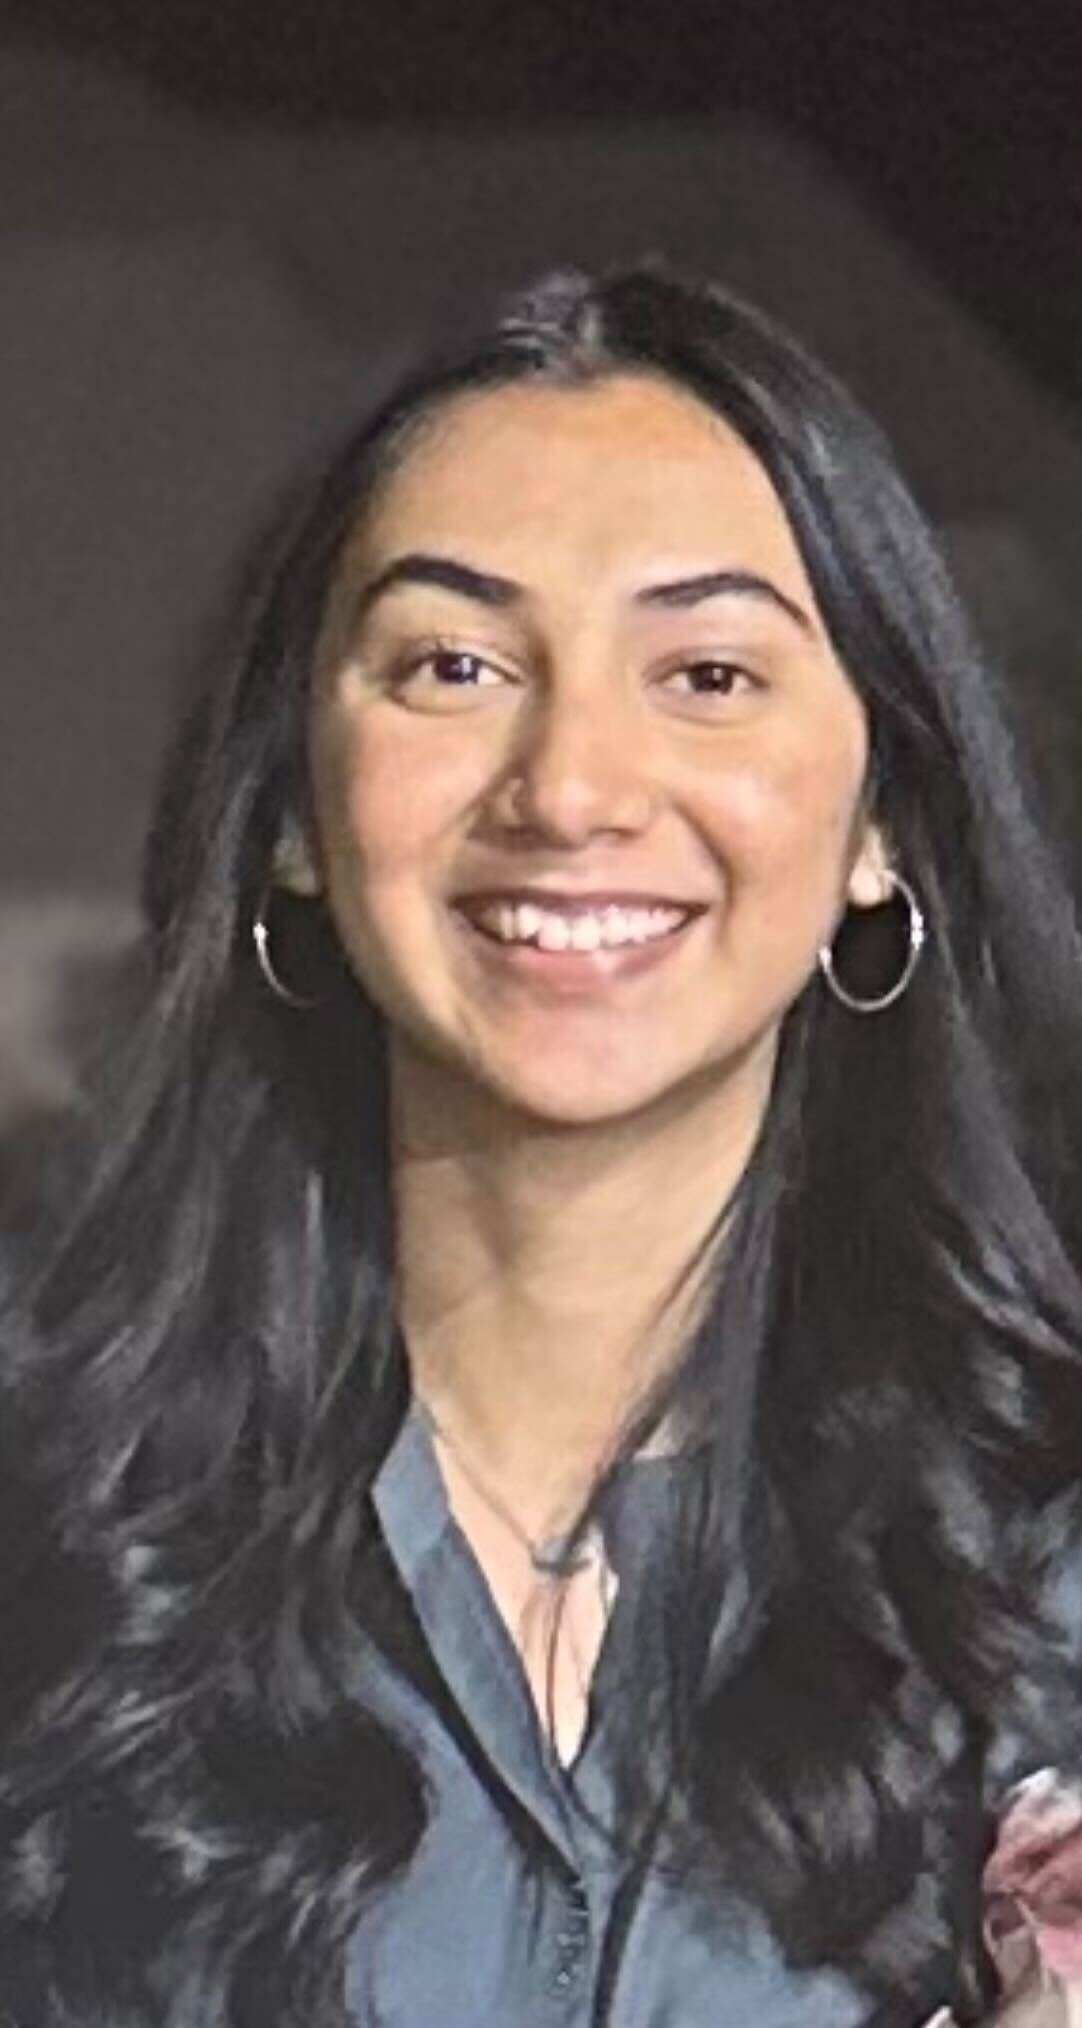
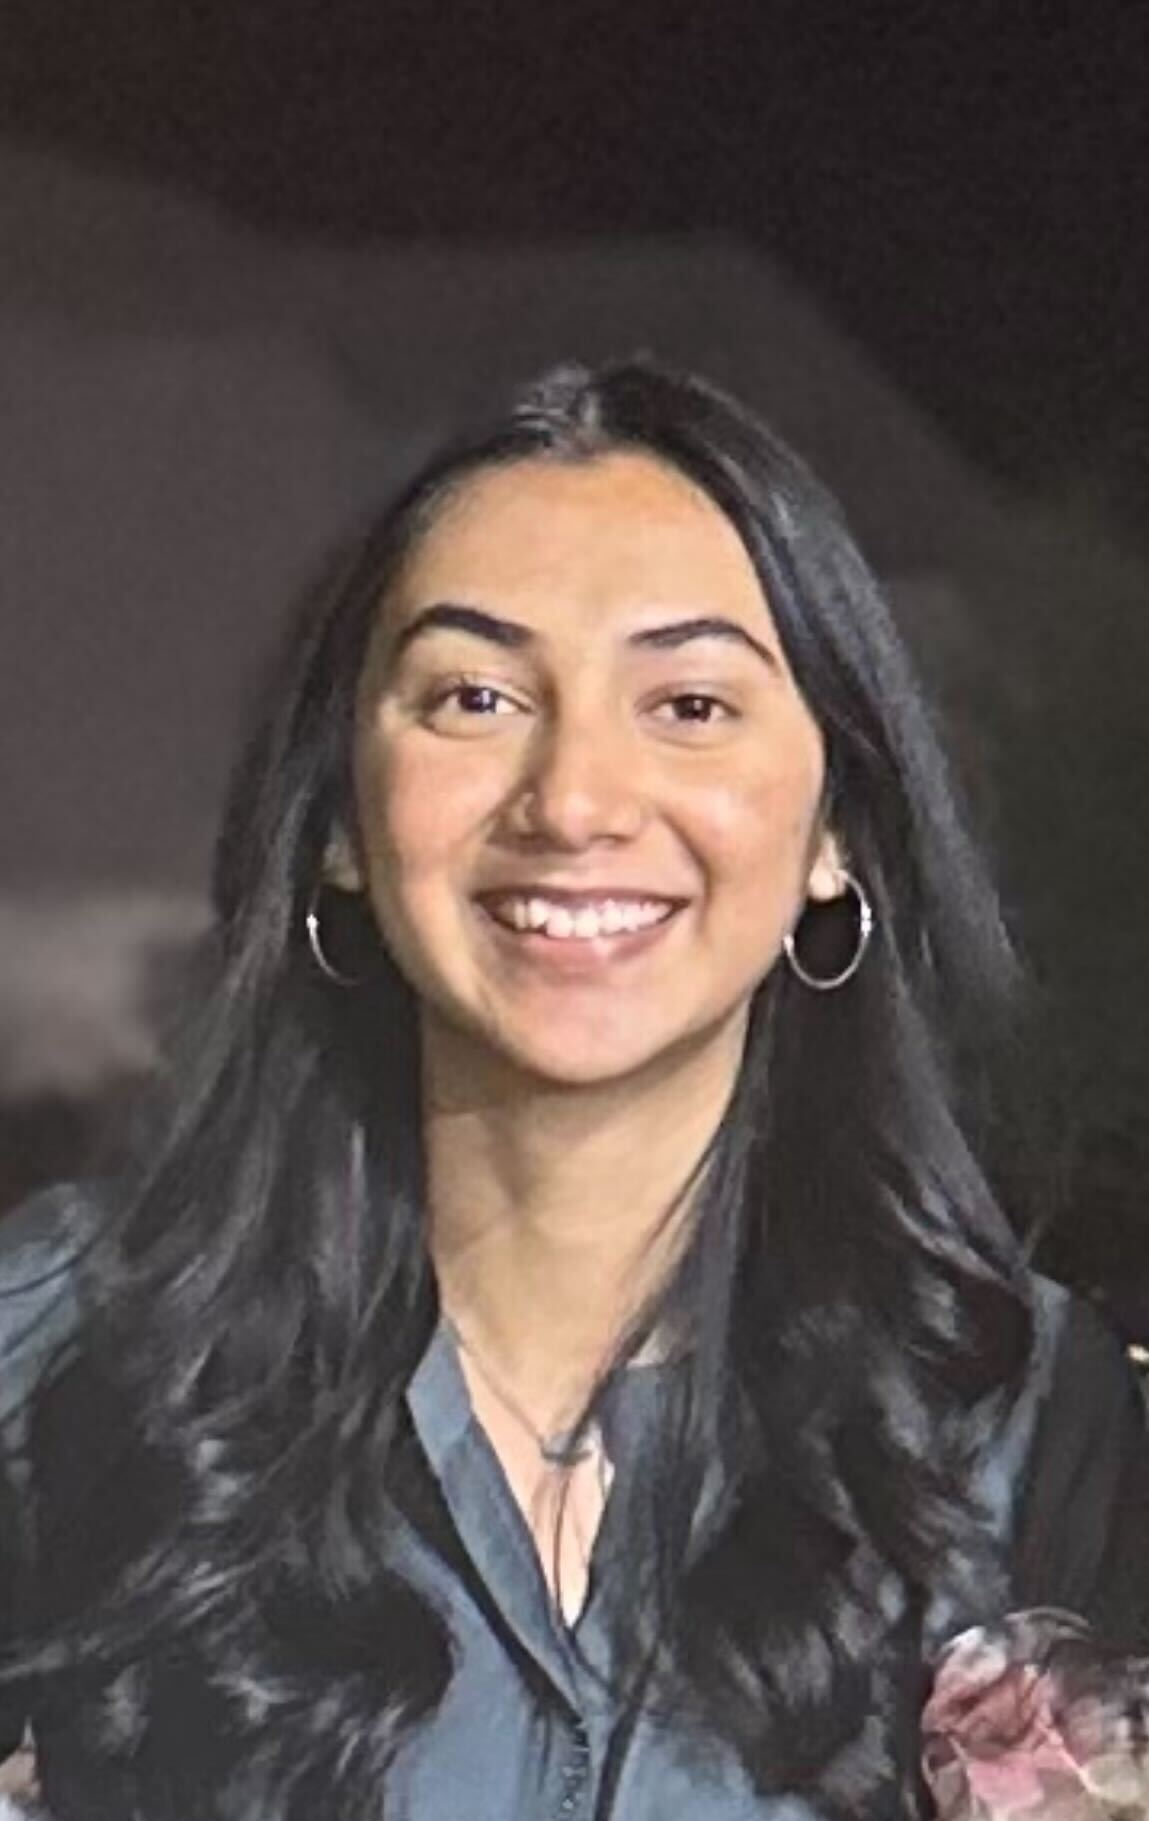
Update Juhi photo

diff --git a/index.html b/index.html
@@ -188,12 +188,24 @@
         <section class="team-section" id="team">
             <div class="container">
                 <div class="team-header animate">
-                    <h2>Meet Our Coordinators</h2>
+                    <h2>Meet the Team</h2>
                     <p>A diverse group of innovators committed to a sustainable future.</p>
                 </div>
-                <!-- Interactive Bubble Grid -->
-                <div class="bubble-grid" id="bubble-grid">
-                    <!-- Populated via script -->
+
+                <!-- Board Members Section -->
+                <div class="team-subcategory animate">
+                    <h3>Board Members</h3>
+                    <div class="bubble-grid" id="board-grid">
+                        <!-- Populated via script -->
+                    </div>
+                </div>
+
+                <!-- Team Leads and Coordinators Section -->
+                <div class="team-subcategory animate" style="margin-top: 6rem;">
+                    <h3>Team Leads & Coordinators</h3>
+                    <div class="bubble-grid" id="coordinators-grid">
+                        <!-- Populated via script -->
+                    </div>
                 </div>
             </div>
         </section>
@@ -225,7 +237,9 @@
     <script>
         // Populate Team Members
 
-        const teamGrid = document.getElementById('bubble-grid');
+        const boardGrid = document.getElementById('board-grid');
+        const coordinatorsGrid = document.getElementById('coordinators-grid');
+
         const teamMembers = [
             {
                 name: 'Prahaladh Gopalakrishnan',
@@ -344,8 +358,15 @@
                     <span class="role-highlight">${role}</span>
                 </div>
             `;
-            teamGrid.appendChild(member);
+
+            // First 4 are board members
+            if (i < 4) {
+                boardGrid.appendChild(member);
+            } else {
+                coordinatorsGrid.appendChild(member);
+            }
         }
+
 
         // Populate Speakers Carousel
         const speakerCarousel = document.getElementById('speaker-carousel');

diff --git a/styles.css b/styles.css
@@ -543,6 +543,33 @@ a {
     color: var(--color-dark);
 }
 
+.team-subcategory {
+    margin-top: 4rem;
+    text-align: center;
+}
+
+.team-subcategory h3 {
+    font-size: 1.75rem;
+    margin-bottom: 2rem;
+    color: var(--color-brown-dark);
+    text-transform: uppercase;
+    letter-spacing: 2px;
+    position: relative;
+    display: inline-block;
+}
+
+.team-subcategory h3::after {
+    content: '';
+    position: absolute;
+    bottom: -8px;
+    left: 50%;
+    transform: translateX(-50%);
+    width: 40px;
+    height: 3px;
+    background: var(--color-peach);
+    border-radius: 2px;
+}
+
 .bubble-grid {
     display: flex;
     flex-wrap: wrap;
